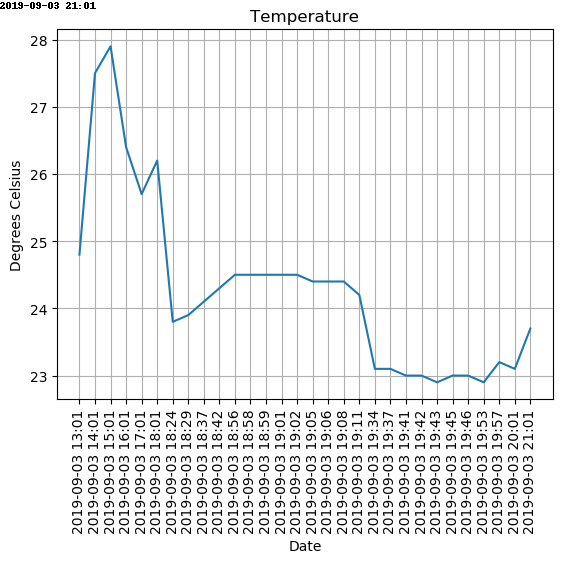
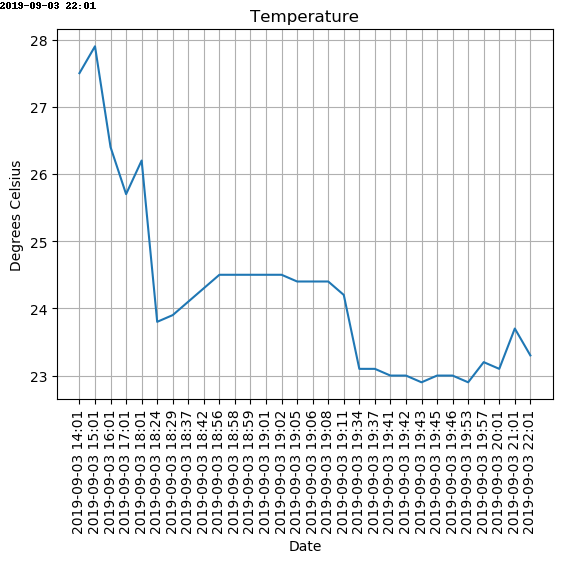
2019-09-03 22:01

diff --git a/monitor.py b/monitor.py
@@ -162,7 +162,7 @@ img = Image.open(mapFileName)
 ImageDraw.Draw(
     img  # Image
 ).text(
-    (0, 40),  # Coordinates
+    (0, 20),  # Coordinates
     gitCommitMessage,  # Text
     (0, 0, 0)  # Color
 )
